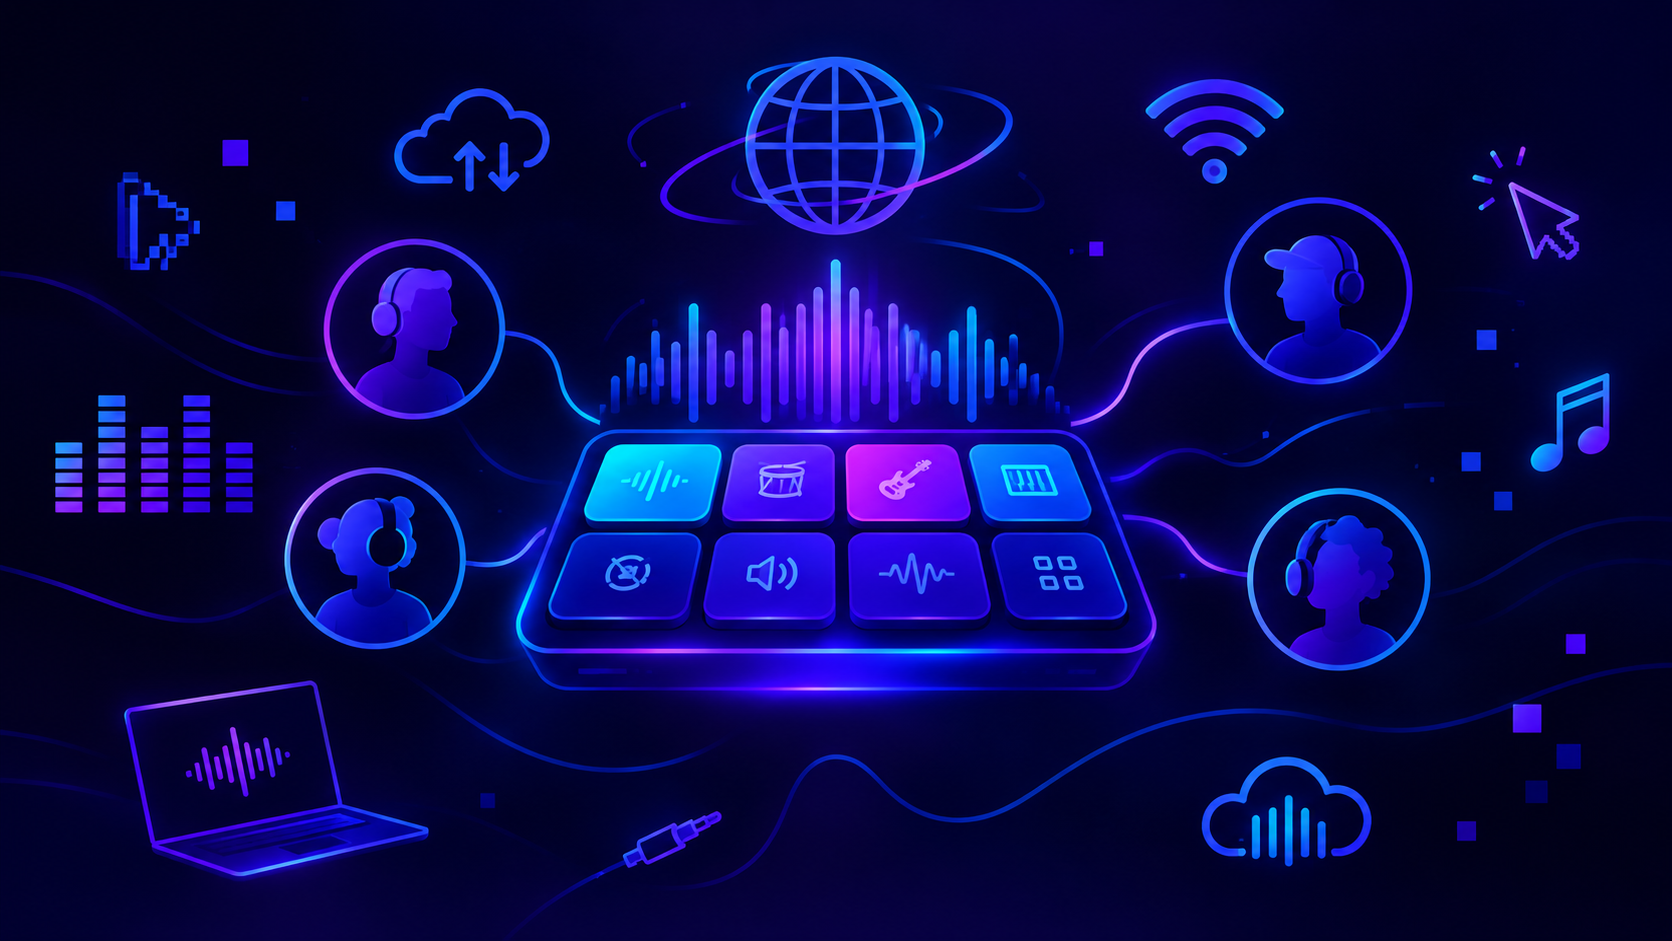
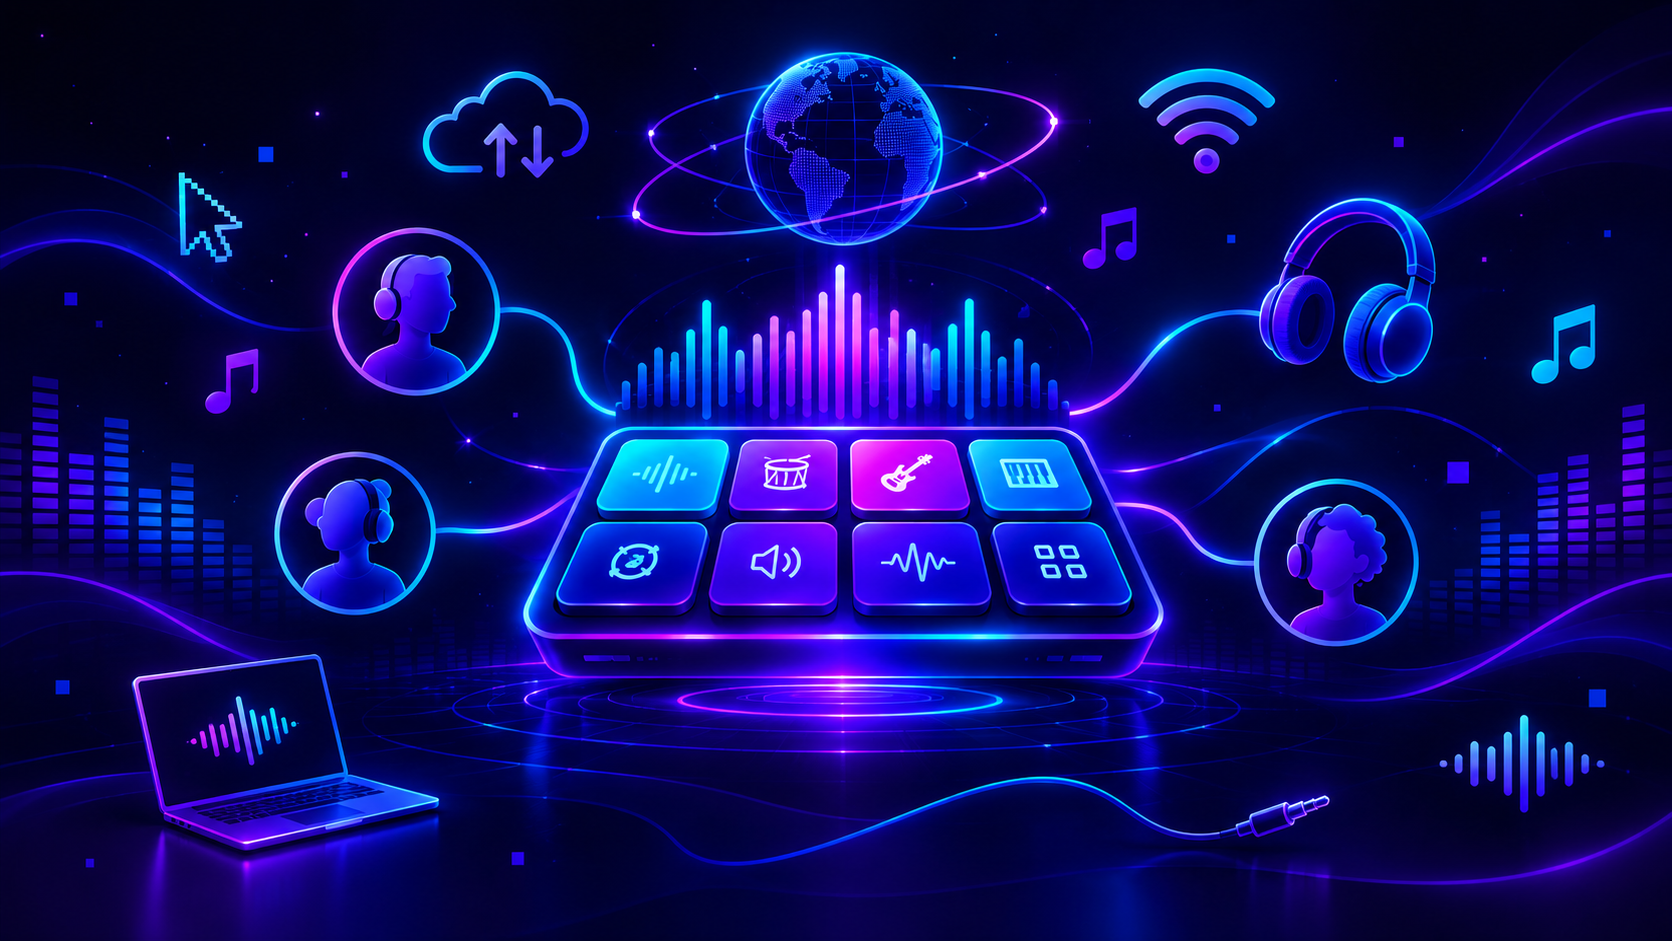
ajustes de hero background e font size

diff --git a/style.css b/style.css
@@ -1,19 +1,18 @@
+* {
+  box-sizing: border-box;
+  margin:0;
+  padding:0;
+}
+
  html { height:100%; }
 
     body {
-        height: 100%;
         width:100%;
         display:flex;
         position:fixed;
         flex-direction: column;
         min-height: 100vh;
-        padding-left: 5px;
-        padding-right: 5px;
-        padding-top: 0;
-        margin-top: 0;
-        padding-bottom: 0;
-        margin-bottom: 0;
-        background-color: rgb(2, 13, 58);
+        background-color: rgb(218, 219, 223);
     }
 
 
@@ -28,68 +27,53 @@
     justify-content: flex-start;
     align-items: center;
   }
-
-  #divHeroSection {
-    display:flex;
-    position:absolute;
-    width:100%;
-    height:100%;
-    background-color: white;
-    z-index: 1;
-    justify-content: flex-start;
-    align-items: center;
   
-  }
-
-  #divHeroText {
-    display:flex;
-    flex-direction: column;
-    width:40%;
-    height:100%;
-    background-color: rgb(2, 13, 58);
-   
-    align-items: center;
-    padding:1rem;
-  }
-
-p {
-     color:rgb(208, 239, 240);
-     font-size: 30px;
+ .hero-section {
+  position:relative;
+  width: 100%;
+  height: 100%;
+  /* O gradiente vem primeiro para ficar por cima da imagem */
+  background-image: 
+    linear-gradient(rgba(0, 0, 0, 0.5), rgba(0, 0, 0, 0.5)), 
+    url("./imgs/imgsite/hero1.png");
+  background-size: cover;
+  background-position: center;
+  /* Alinhamento e cor do texto */
+  display: flex;
+  align-items: flex-start;
+  padding-top: 3rem;;
+  justify-content: center;
+  color: #ffffff;
 }
 
- #divHeroText h1 {
-       color:rgb(208, 239, 240);
-       font-size: 4rem;
-       padding:1rem;
-  }
+.hero-text {
+  display: flex;
+  flex-direction: column;
+  align-items: center;
+  width:40%;
+  height: 40%;
+  gap: 1rem;
+}
 
-  #divHeroText button {
-        color:rgb(9, 14, 67);
-        font-size: 20px;
-        padding:1rem;
-        background-color: rgb(136, 215, 244);
-        border-radius: 10px;
-   }
-  
-  #divHeroText button:hover {
-        transform: scale(0.98);
-        background-color: rgb(130, 160, 231);
-   }
+.hero-text h1 {
+  color:white;
+  font-size: 6rem;
+}
 
-  #divHeroImg {
-    display:flex;
-    width:60%;
-    height:100%;
-  }
+.hero-text h2 {
+  text-align: center;
+  font-size: 2rem;
+}
 
-  #divHeroImg img {
-    display:flex;
-    max-width:100%;
-    height:auto;
-    display: block;
-  }
+.hero-section button {
+  width:170px;
+  height: 60px;
+  border-radius: 9px;
+  background-color: #63bff5;
+  font-size: 1.5rem;
+}
 
-  #divTrilhaSonora {
+#divTrilhaSonora {
     display:none;
     position:absolute;
     flex-direction: column;

diff --git a/index.html b/index.html
@@ -20,14 +20,11 @@
 
 <body>
   <div id="home" >
-      <div id="divHeroSection">
-        <div id="divHeroText">
+      <div class="hero-section">
+        <div class="hero-text">
           <h1 id="heroTitle">Colaborasom</h1>
-          <p id="heroSubtitle">Plataforma de áudio. Colabore pelas ondas sonoras da web!</p>
+          <h2>Plataforma de áudio. Colabore pelas ondas sonoras da web!</h2>
           <button id="heroButton" onclick="showArt1()">Experimente</button>
-        </div>
-        <div id="divHeroImg">  
-          <img id="heroImg" src="imgs/imgsite/hero1.png"></img>  
         </div>
       </div>
       <div id="divIconHome" style="display:none">
